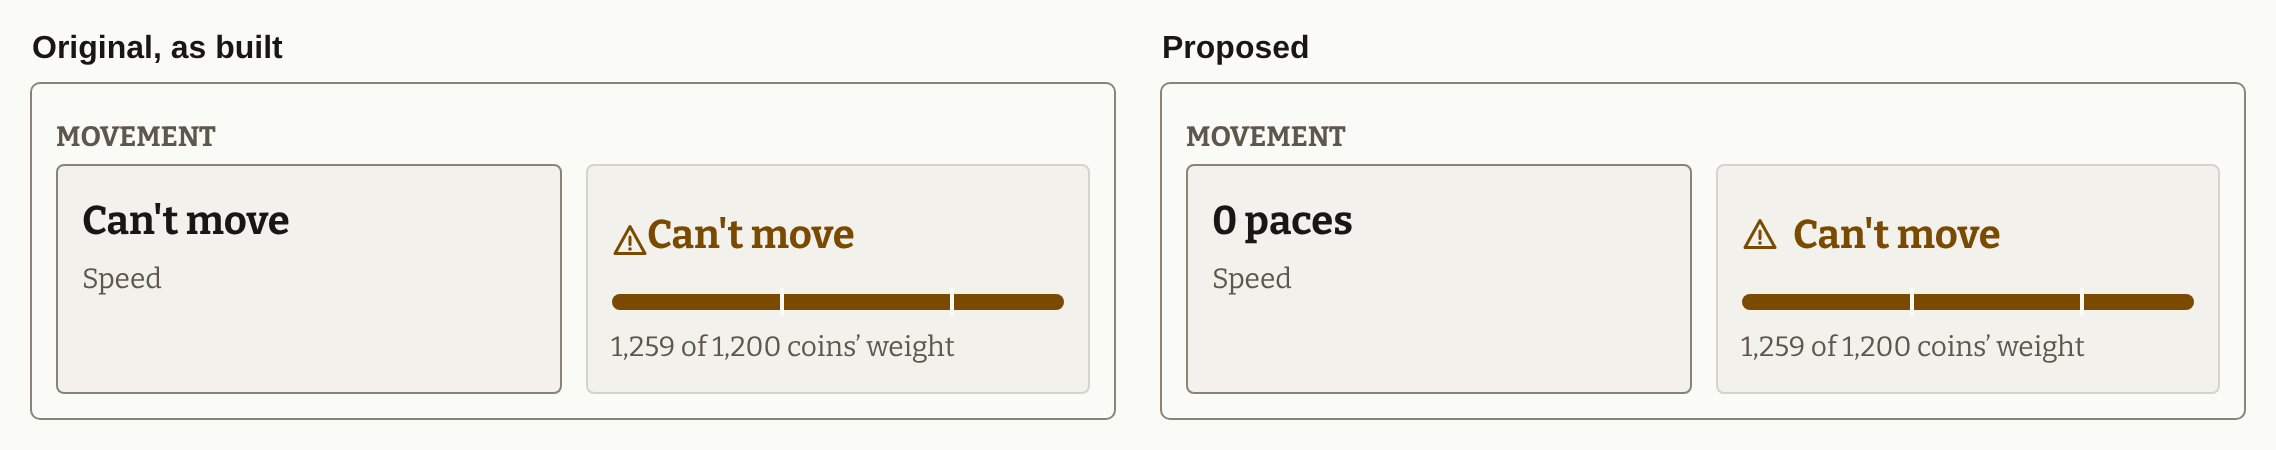
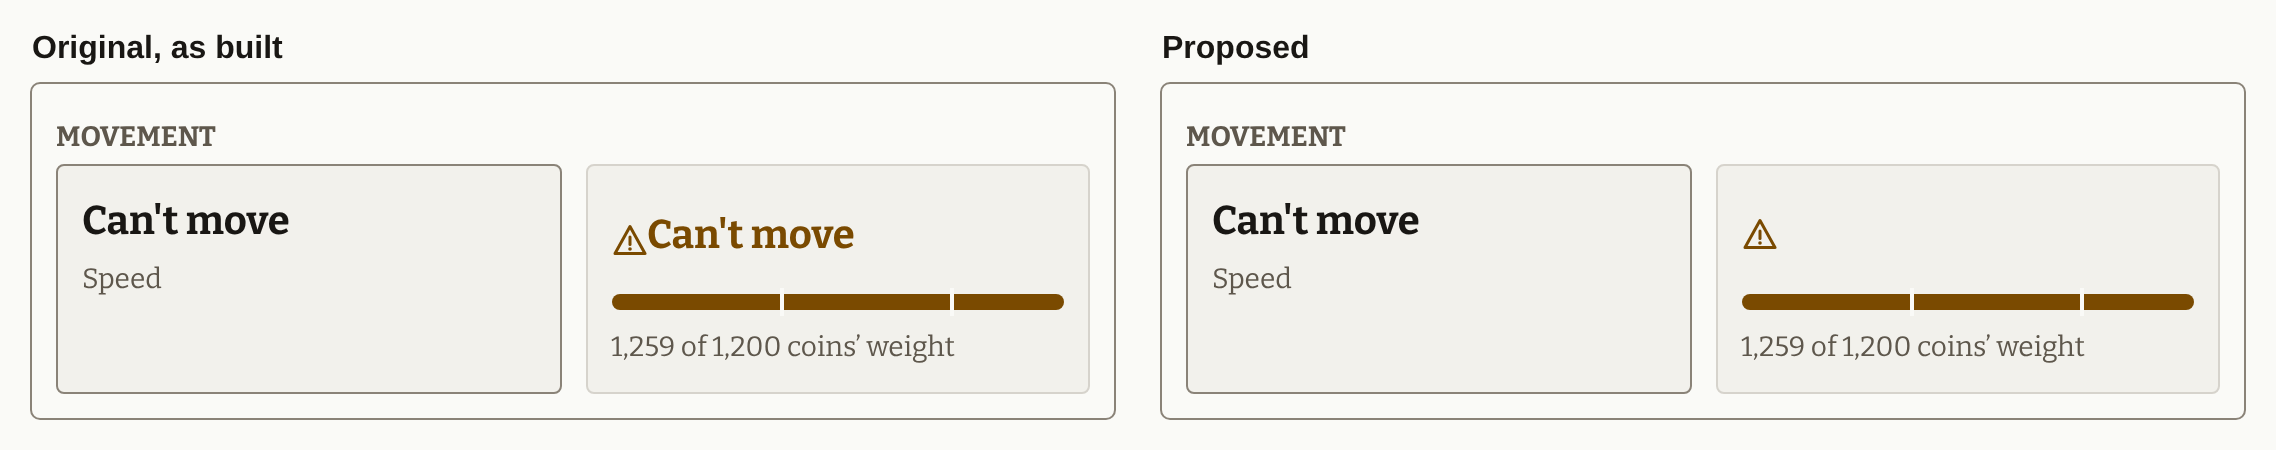
Mockup: page 38 fix round, the handle, say it once, dark frames (Row: mock-38)
Approved with fixes 2026-11-24: critique 7 (the proposed handle drawn as a
grip one can see, tokens only), critique 4 (finding 8 says "Can't move"
once), dark frames for findings 1 and 7. Docs only.

Claude-Session: https://claude.ai/code/session_013pmZkjxXeeKxWrdz3QXnDG

Changed region(s): [[0.7799, 0.4978, 0.9047, 0.56], [0.5303, 0.4667, 0.6239, 0.5289]]

diff --git a/docs/design/mockups/december/38-player-tab-audit-fixes.html b/docs/design/mockups/december/38-player-tab-audit-fixes.html
@@ -33,8 +33,10 @@
 <img src="png/38-A-whole-tablet-light.png" alt="The Player tab on a tablet held sideways: as built, and with fixes 1, 4, 5, 7 and 9 applied"></div>
 
 <h1>38-1. The rail's tabs and the handle (the brief's "finding 6") <span class="ev">Pictures: 6, 1</span></h1>
-<div class="fr"><p class="cap"><b>Found:</b> the rail's three tabs are 40 px wide (the floor is 44) and 4 px apart (the floor is 8); the handle's 44 px tap area touches the rail (0 px). <b>Proposed:</b> tabs 44 wide, 8 px apart; the handle 8 px clear of the rail.<small>Measured on the built screen, before and after. Cost: the left column moves 12 px to the right.</small></p>
-<img src="png/38-1-rail-and-handle-tablet-light.png" alt="The rail and the handle: as built and proposed"></div>
+<div class="fr"><p class="cap"><b>Found:</b> the rail's three tabs are 40 px wide (the floor is 44) and 4 px apart (the floor is 8); the handle's 44 px tap area touches the rail (0 px). <b>Proposed:</b> tabs 44 wide, 8 px apart; the handle 8 px clear of the rail.<small>Measured on the built screen, before and after. Cost: the left column moves 12 px to the right.</small><small><b>Fix round, 2026-11-24 (critique 7):</b> the proposed handle is a grip one can see: a 24 by 44 px lozenge on the line (Surface fill, a 1.5 px Control edge) with the arrow inside it in Ink at 16 px, in place of the 6 px grey bar and the 14 px grey arrow. Tokens only. The edge against the page measures 3.6 to 1 in light and in dark. The handle shows only where the menu is a column (1024 px and wider): the upright tablet and the phone have none, so their frames are unchanged.</small></p>
+<img src="png/38-1-rail-and-handle-tablet-light.png" alt="The rail and the handle: as built and proposed">
+<p class="cap"><b>The same in dark</b> (added in the fix round).</p>
+<img src="png/38-1-rail-and-handle-tablet-dark.png" alt="The rail and the handle in dark: as built and proposed"></div>
 <div class="fr"><p class="cap"><b>A tablet held upright (820 by 1180):</b> the tabs sit in a row, 4 px apart as built; proposed 8 px.</p>
 <img src="png/38-1-tabs-tablet-upright-light.png" alt="The tabs in a row on a tablet held upright: as built and proposed"></div>
 <div class="fr"><p class="cap"><b>A phone (375 px):</b> there is no rail and no handle; the four tabs are a bar at the foot, each 94 by 65, touching. <b>No change proposed.</b><small><span class="flag">⚑</span> Does the 8 px between targets apply to a tab bar's tabs? As built they touch, as tab bars usually do.</small></p>
@@ -69,10 +71,12 @@
 
 <h1>38-7. Short forms in the tiles' lines <span class="ev">Pictures: 1, 2, 3, 5</span></h1>
 <div class="fr"><p class="cap"><b>Found:</b> "AC +1 from NIM" uses two short forms the screen never spells out (the tile above it says "Armour class", the score says "Nimbleness"); "Missile" has a capital mid-line. <b>Proposed:</b> "Waxed coat, Nimbleness +1" (what he wears, then the score) and "Melee +2, missile +1".<small><span class="flag">⚑ Words</span> The proposed line names the armour worn, which the built line does not: new content, for a ruling. A long armour name is not drawn.</small></p>
-<img src="png/38-7-words-tablet-light.png" alt="The armour class and attack tiles: as built and proposed"></div>
+<img src="png/38-7-words-tablet-light.png" alt="The armour class and attack tiles: as built and proposed">
+<p class="cap"><b>The same in dark</b> (added in the fix round).</p>
+<img src="png/38-7-words-tablet-dark.png" alt="The armour class and attack tiles in dark: as built and proposed"></div>
 
 <h1>38-8. Over the most he can carry <span class="ev">Script</span></h1>
-<div class="fr"><p class="cap"><b>Found:</b> "Can't move" is written twice side by side, and the warning sign touches its word. <b>Proposed:</b> the speed tile reads "0 paces"; the sign stands 8 px from the word.<small><span class="flag">⚑ Words</span> "0 paces" is new wording.</small></p>
+<div class="fr"><p class="cap"><b>Found:</b> "Can't move" is written twice side by side, and the warning sign touches its word. <b>Proposed (fix round, 2026-11-24, critique 4):</b> "Can't move" is said once, in the speed tile; the load tile keeps its warning sign, its full bar and its count, without the words.<small><span class="flag">⚑</span> Which tile keeps the words is not ruled; no new wording is drawn ("0 paces" is gone). The load tile's sign stands alone here, with no word beside it.</small></p>
 <img src="png/38-8-over-loaded-tablet-light.png" alt="Movement when over-loaded: as built and proposed"></div>
 
 <h1>38-9. "Hit points" is the one heading in another hand <span class="ev">Pictures: 1 to 5</span></h1>
@@ -96,6 +100,7 @@
 <tr><th>Total</th><th>28 of 40</th><th></th></tr>
 </table>
 <p class="note"><b>What works.</b> Every fix is small and keeps the screen as approved: nothing moves to a new place, no new colour, no new part. Fixes 1, 2 and 9 are plain repairs to the floors and the type the tab already uses. Fix 6 gives the biggest gain to the player with the least room. <b>Cognitive load and hierarchy:</b> no heavier than before; hit points stay the loudest thing, with one bordered card (the weapon) below them; fix 9 quiets one odd label. The tab suits its mode: a screen to glance at, not to read.</p>
+<p class="note"><b>Approved with fixes 2026-11-24: critique 7, critique 4, dark frames for 1 and 7.</b></p>
 <ol class="crit">
 <li><b>Fix 4's double rule stands alone.</b> Scores, Saves and Movement keep bare headings, so one heading in the column looks different. Simpler: keep the single rule and only move the row down 8 px. (<code>layout</code>)</li>
 <li><b>Fix 5's fade dims a button.</b> In 38A "Refill" sits half-faded at the foot: a dim control reads as switched off, and the app has no switched-off buttons. A shorter fade (16 px), or a plain rule at the edge, avoids it. (<code>polish</code>)</li>

diff --git a/docs/design/mockups/index.md b/docs/design/mockups/index.md
@@ -524,6 +524,7 @@ Every picture in `m4b/`, `m6/` and `superseded/` has one row here, and every row
 | [december/png/37-C-flag-6-the-error-dark.png](december/png/37-C-flag-6-the-error-dark.png) | `../../plans/light-tap.md` ⚑ 1 and ⚑ 6, row mock-light-flags-1-6 (page 37, frame 37C: the same in dark; a frame of `december/37-light-flags-1-and-6.html`; ruled 2026-11-22, “1A 6B”: ⚑ 6 (B), its two (B) frames approved by Francis 2026-11-22; (A) is today’s, to be replaced) | dark | current |
 | [december/png/38-A-whole-tablet-light.png](december/png/38-A-whole-tablet-light.png) | row mock-38, the `impeccable audit` of the built Player tab of 2026-11-23 (page 38, frame 38A: the whole tab on a tablet held sideways, 1180 by 820, as built beside fixes 1, 4, 5, 7 and 9; the built screen as built beside the proposed fix; a frame of `december/38-player-tab-audit-fixes.html`; not ruled, the findings rebuilt from the audit’s pictures) | light | current |
 | [december/png/38-1-rail-and-handle-tablet-light.png](december/png/38-1-rail-and-handle-tablet-light.png) | row mock-38, the `impeccable audit` of the built Player tab of 2026-11-23 (page 38, frame 38-1: the rail’s tabs 40 to 44 px wide and 4 to 8 px apart, the handle 8 px clear of the rail; the built screen as built beside the proposed fix; a frame of `december/38-player-tab-audit-fixes.html`; not ruled, the findings rebuilt from the audit’s pictures) | light | current |
+| [december/png/38-1-rail-and-handle-tablet-dark.png](december/png/38-1-rail-and-handle-tablet-dark.png) | row mock-38, the `impeccable audit` of the built Player tab of 2026-11-23 (page 38, frame 38-1: the rail’s tabs 40 to 44 px wide and 4 to 8 px apart, the handle 8 px clear of the rail and drawn as a grip, in dark; the built screen as built beside the proposed fix; a frame of `december/38-player-tab-audit-fixes.html`; not ruled, the findings rebuilt from the audit’s pictures) | dark | current |
 | [december/png/38-1-tabs-tablet-upright-light.png](december/png/38-1-tabs-tablet-upright-light.png) | row mock-38, the `impeccable audit` of the built Player tab of 2026-11-23 (page 38, frame 38-1: the tabs in a row on a tablet held upright, 4 to 8 px apart; the built screen as built beside the proposed fix; a frame of `december/38-player-tab-audit-fixes.html`; not ruled, the findings rebuilt from the audit’s pictures) | light | current |
 | [december/png/38-1-tab-bar-phone-light.png](december/png/38-1-tab-bar-phone-light.png) | row mock-38, the `impeccable audit` of the built Player tab of 2026-11-23 (page 38, frame 38-1: the phone’s tab bar at 375 px, no change proposed; the built screen as built beside the proposed fix; a frame of `december/38-player-tab-audit-fixes.html`; not ruled, the findings rebuilt from the audit’s pictures) | light | current |
 | [december/png/38-2-weapon-in-hand-tablet-light.png](december/png/38-2-weapon-in-hand-tablet-light.png) | row mock-38, the `impeccable audit` of the built Player tab of 2026-11-23 (page 38, frame 38-2: the weapon in hand with a long name, its buttons 4 to 8 px under the words; the built screen as built beside the proposed fix; a frame of `december/38-player-tab-audit-fixes.html`; not ruled, the findings rebuilt from the audit’s pictures) | light | current |
@@ -535,6 +536,7 @@ Every picture in `m4b/`, `m6/` and `superseded/` has one row here, and every row
 | [december/png/38-6-two-buttons-larger-text-phone-light.png](december/png/38-6-two-buttons-larger-text-phone-light.png) | row mock-38, the `impeccable audit` of the built Player tab of 2026-11-23 (page 38, frame 38-6: At hand on a phone at Larger text; a two-button row’s buttons under its words; the built screen as built beside the proposed fix; a frame of `december/38-player-tab-audit-fixes.html`; not ruled, the findings rebuilt from the audit’s pictures) | light | current |
 | [december/png/38-6-two-buttons-tablet-light.png](december/png/38-6-two-buttons-tablet-light.png) | row mock-38, the `impeccable audit` of the built Player tab of 2026-11-23 (page 38, frame 38-6: the two-button rows on a tablet held sideways, no change; the built screen as built beside the proposed fix; a frame of `december/38-player-tab-audit-fixes.html`; not ruled, the findings rebuilt from the audit’s pictures) | light | current |
 | [december/png/38-7-words-tablet-light.png](december/png/38-7-words-tablet-light.png) | row mock-38, the `impeccable audit` of the built Player tab of 2026-11-23 (page 38, frame 38-7: the armour class and attack tiles’ lines without short forms; the built screen as built beside the proposed fix; a frame of `december/38-player-tab-audit-fixes.html`; not ruled, the findings rebuilt from the audit’s pictures) | light | current |
+| [december/png/38-7-words-tablet-dark.png](december/png/38-7-words-tablet-dark.png) | row mock-38, the `impeccable audit` of the built Player tab of 2026-11-23 (page 38, frame 38-7: the armour class and attack tiles’ lines without short forms, in dark; the built screen as built beside the proposed fix; a frame of `december/38-player-tab-audit-fixes.html`; not ruled, the findings rebuilt from the audit’s pictures) | dark | current |
 | [december/png/38-8-over-loaded-tablet-light.png](december/png/38-8-over-loaded-tablet-light.png) | row mock-38, the `impeccable audit` of the built Player tab of 2026-11-23 (page 38, frame 38-8: movement when over the most he can carry; the built screen as built beside the proposed fix; a frame of `december/38-player-tab-audit-fixes.html`; not ruled, the findings rebuilt from the audit’s pictures) | light | current |
 | [december/png/38-9-hit-points-heading-tablet-light.png](december/png/38-9-hit-points-heading-tablet-light.png) | row mock-38, the `impeccable audit` of the built Player tab of 2026-11-23 (page 38, frame 38-9: “Hit points” in the section headings’ style; the built screen as built beside the proposed fix; a frame of `december/38-player-tab-audit-fixes.html`; not ruled, the findings rebuilt from the audit’s pictures) | light | current |
 | [pack/png/01-standing-dark.png](pack/png/01-standing-dark.png) | `../rulings/dec-afternoon-2026-11-14.md` ap-6 and earlier Pack rework drawings (pages `pack/01` to `pack/04`, draft #632; the whole page 08 supersedes their layout) | dark | current |
